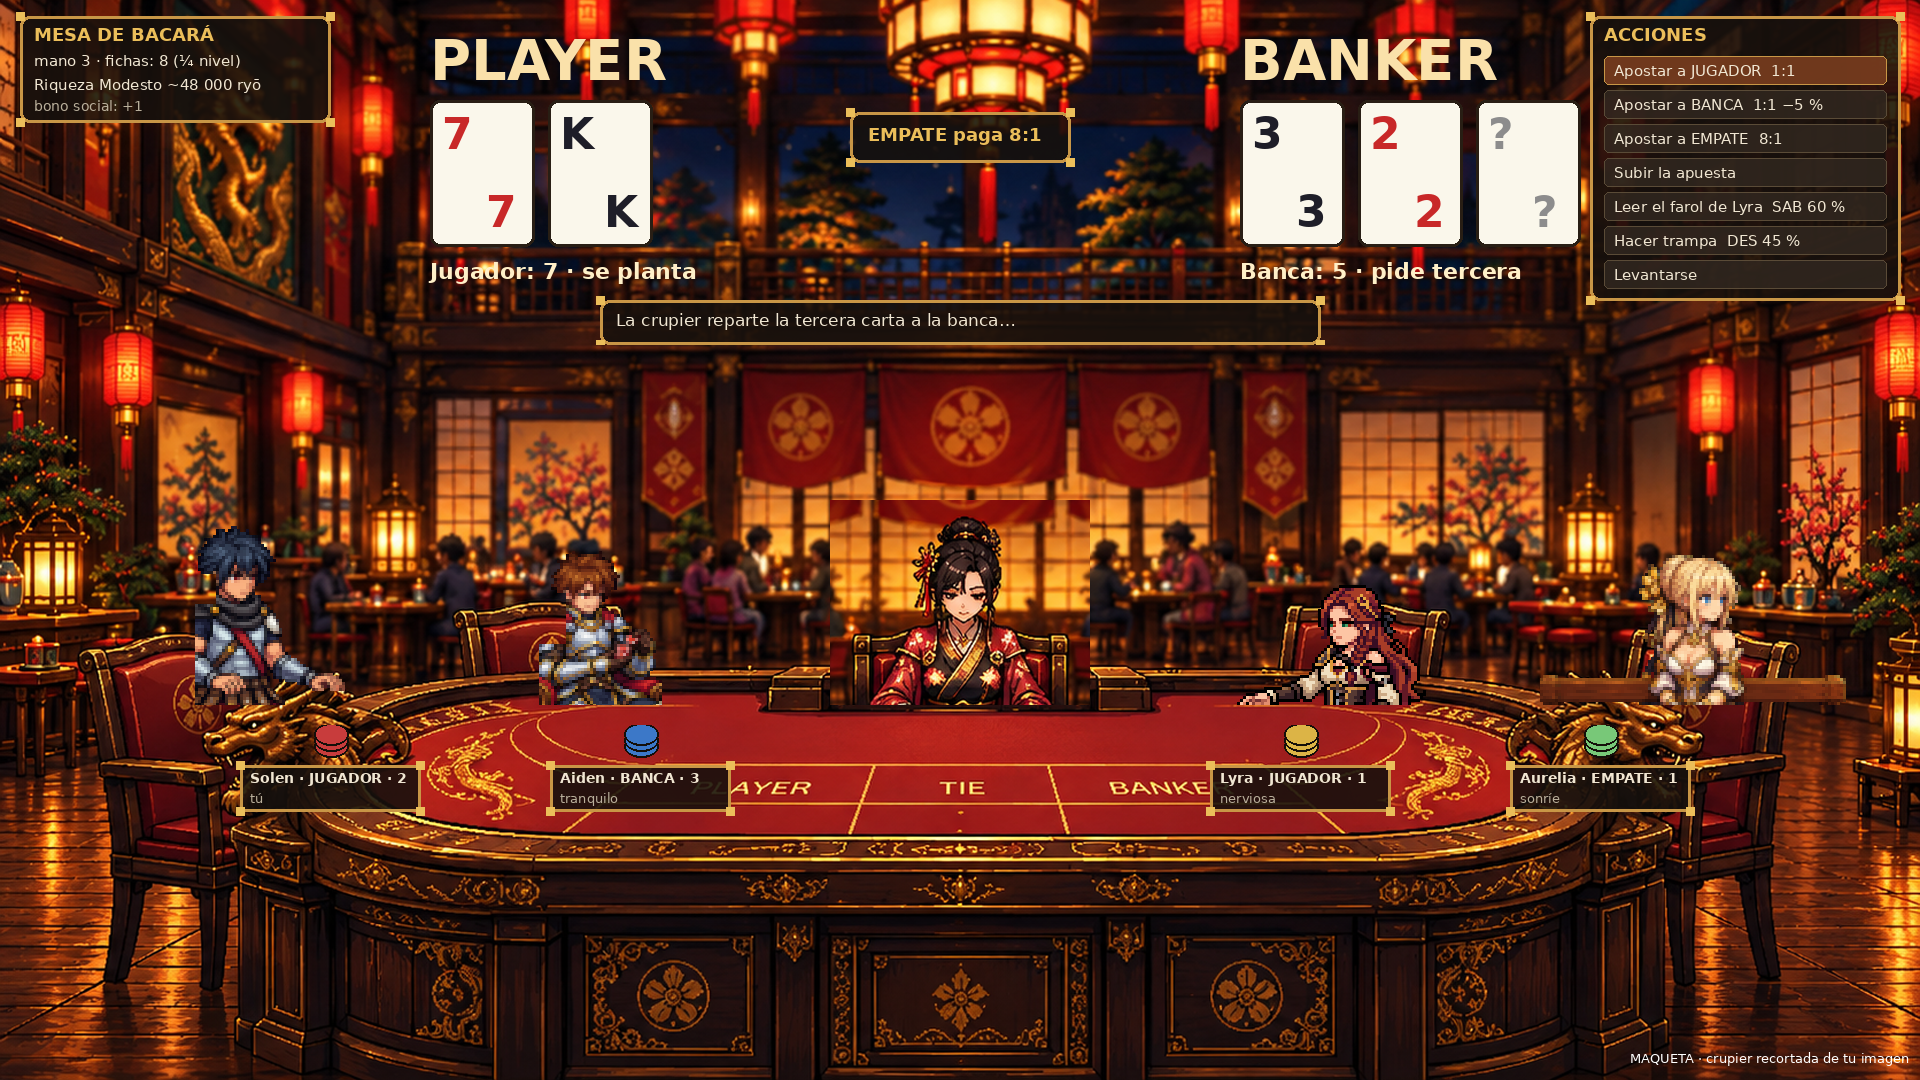
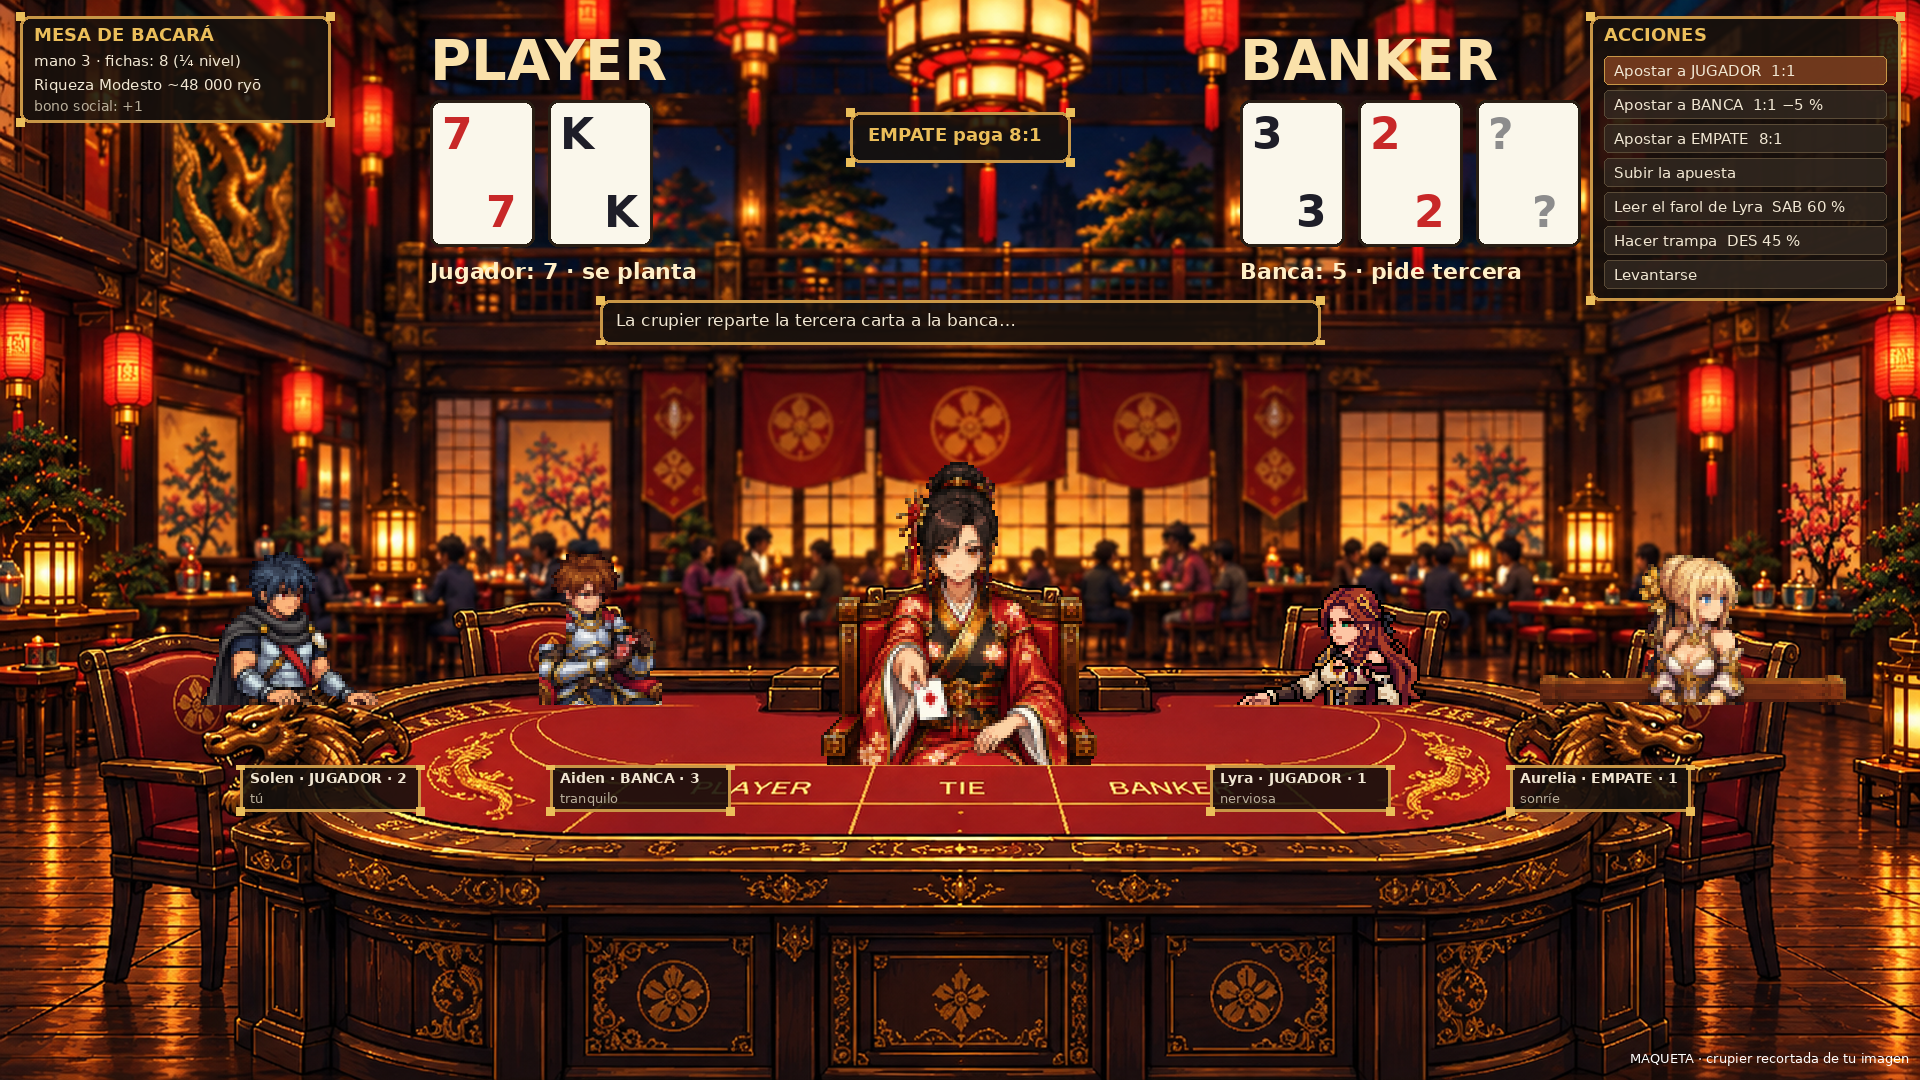
Dealer deal frames and clean seated Solen from the owner; baccarat mock and a two-frame deal gif

diff --git a/docs/reference/README.md b/docs/reference/README.md
@@ -96,3 +96,5 @@ Every deliverable puts his crop and our frame side by side at the same scale.
 | `poses/solen-sit-table-owner-reference.png` | Solen seated at the table (2026-10-28, 1316x1180, his generator from the pose card): in the carved red chair, 3/4 to the right, both hands resting where the table edge is, back straight; cut at the shins (hidden by the table in the scene). Source for the male `sit_table` pose; previewed at game scale in the baccarat mock, the table edge drawn over his lap. |
 | `bacara-scene-target-v2-owner-reference.png` | The baccarat scene again from his generator (2026-10-28, 1674x941): the camera nearer, the four players seated along the far rim with their bodies above the cloth, a dealer in a red kimono in the middle, the near rim empty, the UI on top. The owner: "tu perspectiva no está correcta, debería ser así". The perspective rule of the table scene (WORLD_DESIGN 5b). |
 | `poses/aiden-sit-chips-owner-reference.png` | Aiden seated counting chips (2026-10-28, 1125x1400, his generator from the pose card): in a red armchair, 3/4 to the right, a stack of red chips in his hands at chest height, half a smile. Source for the male `sit_chips` pose; previewed in the baccarat mock. |
+| `poses/crupier-deal-1-owner-reference.png`, `poses/crupier-deal-2-owner-reference.png` | The casino dealer (2026-10-28, 1254x1254 each, his generator): a woman with black hair in a bun with a red ornament, red flowered kimono over black, seated in a carved chair; frame 1 holds a card up at chest height, frame 2 reaches it forward, same position. The two frames of her deal animation (she is house staff, WORLD_DESIGN 5b). |
+| `poses/solen-sit-table-clean-owner-reference.png` | Solen seated at the table, clean (2026-10-28, 512x512): no chair, whole body, the cape falling behind, hands forward at lap height. Replaces `solen-sit-table-owner-reference.png` as the source of the male `sit_table` pose. |
